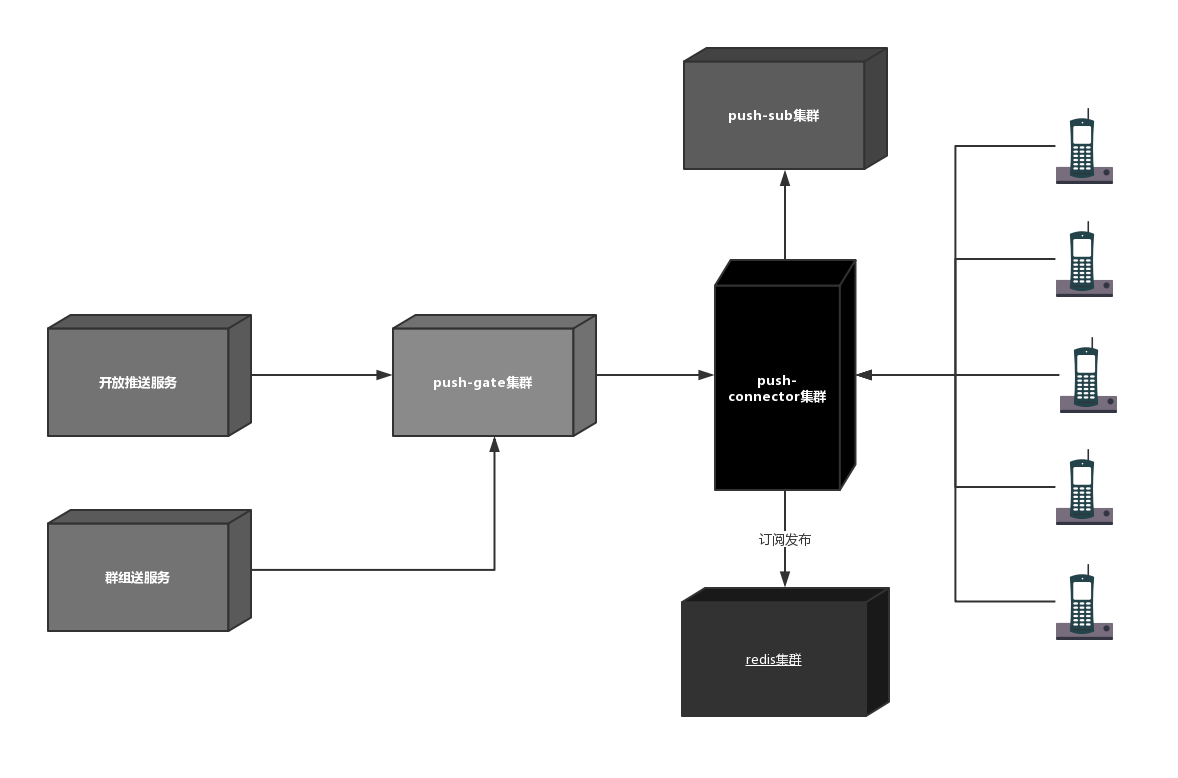
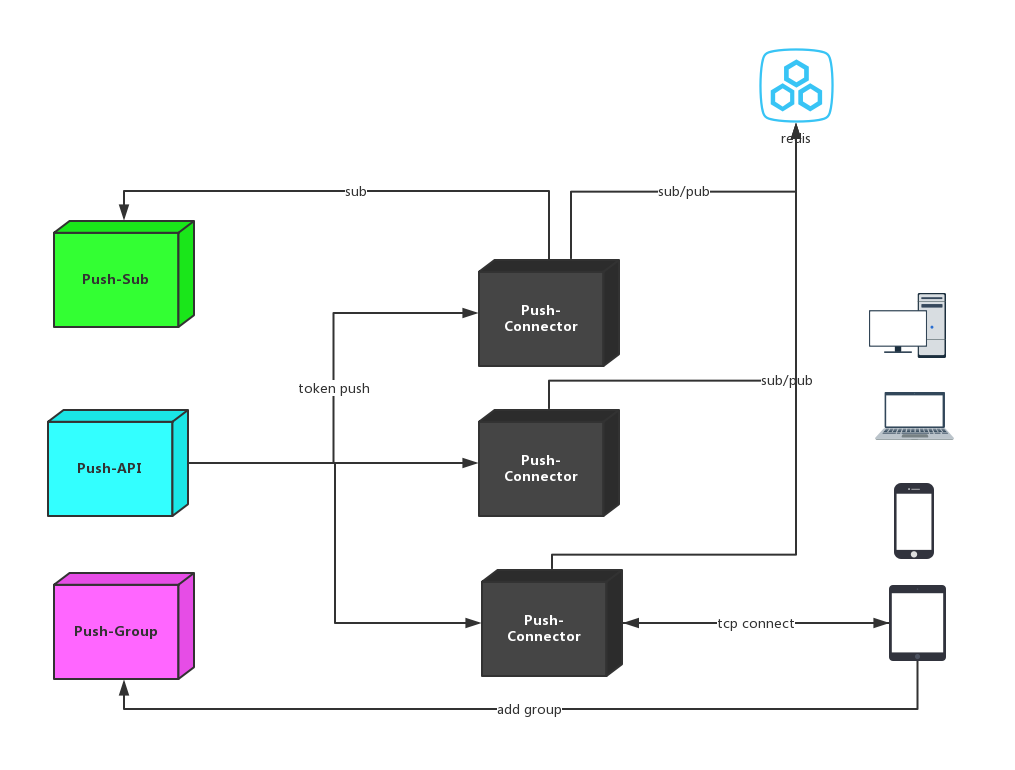
修改部署结构图

diff --git a/README.md b/README.md
@@ -7,6 +7,8 @@
 
 # 部署说明
 
+![image](attachment/push-universe.png)
+
 ## 准备工作
 为了脚本能够正常工作,请先在你的服务器建立如下目录`/opt/boot`,这个是脚本自动查找spring boot工程的目录,该目录下存放所有spring boot工程,具体工程目录结构如下：
 
@@ -39,6 +41,8 @@ push.redis.address=redis://172.16.46.213:6379
 ```
 
 * 运行`mvn clean package -Dmaven.test.skip=true` 打包springboot jar 
+
+> 以下服务如果用户量增加，都可以集群部署
 
 * 启动`spring-boot-dubbo-push-subscribe`订阅服务
 ```shell
@@ -90,15 +94,12 @@ push.redis.address=redis://172.16.46.213:6379
 
 ## 推送SDK
 为了方便用户快速接入消息推送系统，特提供如下SDK
-* __AIO-PUSHSDK__
-* __NIO-PUSHSDK__
 
-* 基于NIO-PUHSDK的`AndroidPushDemo`,这个demo主要演示重定向，心跳，消息推送，群组消息的基本功能
+* __[AIO-PUSHSDK](push-sdk/push-aio-sdk)__
+* __[NIO-PUSHSDK](push-sdk/push-nio-sdk)__
+* 基于NIO-PUHSDK的[AndroidPushDemo](demo/AndroidPushDemo),这个demo主要演示重定向，心跳，消息推送，群组消息的基本功能
 
 # 基础架构
-
-![image](attachment/push-universe.png)
-
 ## Push-connector
 ### 基本功能
 * 提供集群链接管理的能力
